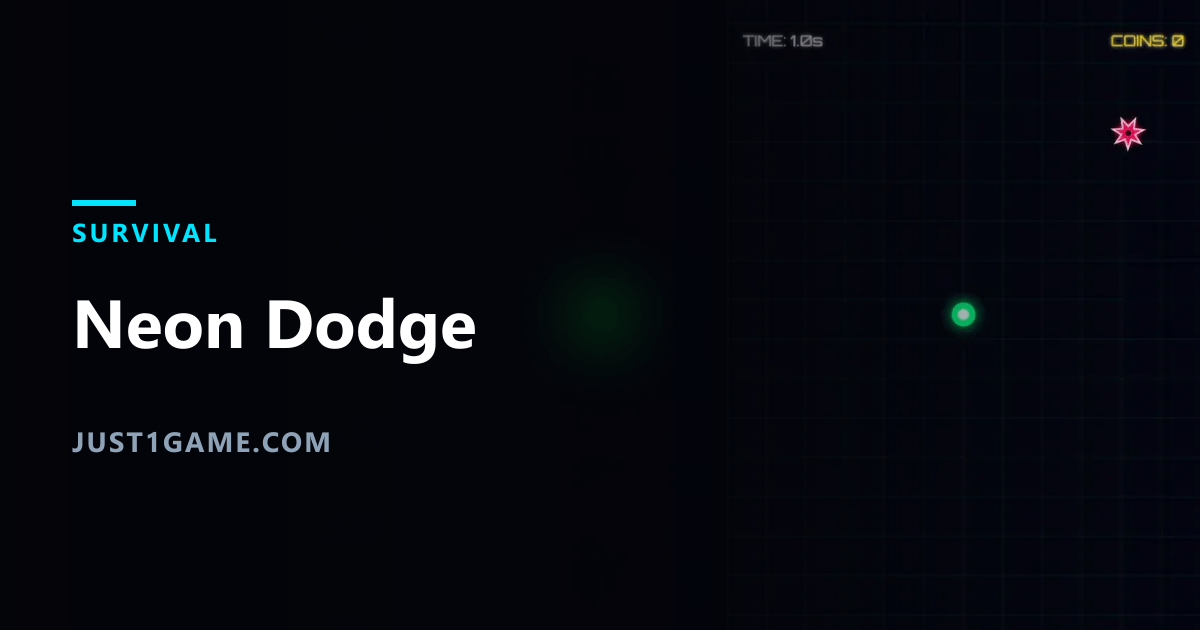
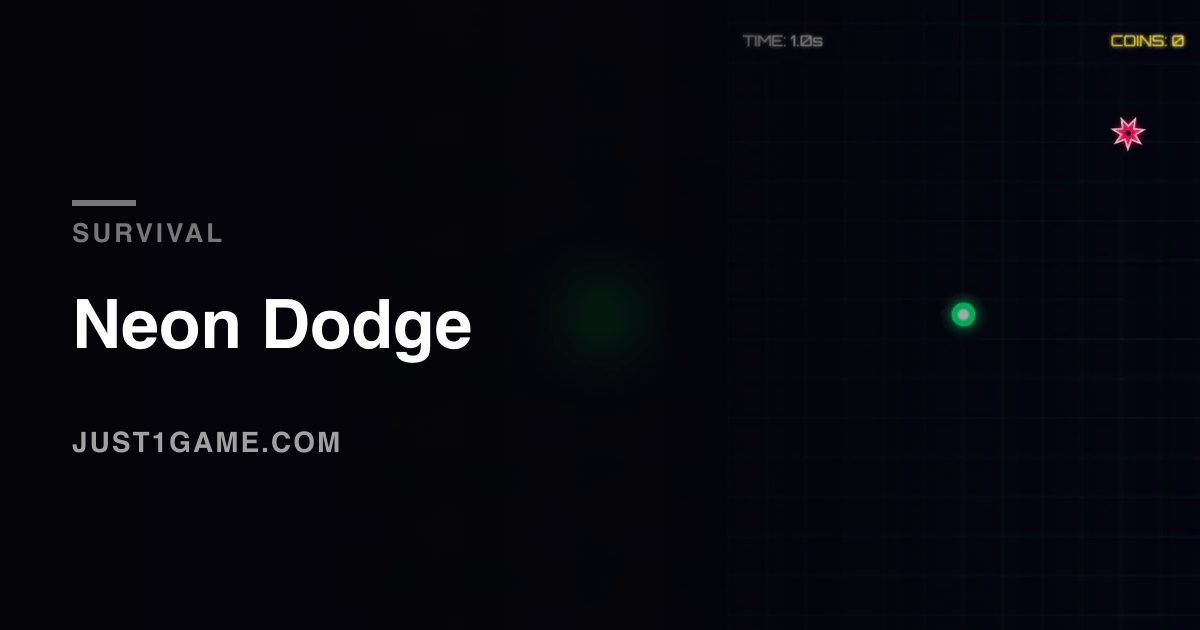
Let each share card take its colour from its own game
The card's text panel was a hardcoded near-black with a cyan rule. That was
right for nineteen neon games and wrong for the cream one: half of the
Feltling card went out black, so the link preview looked like a different
game than the one behind it.

The panel now derives from the thumbnail's dominant colour, and flips
polarity — a pastel game gets a light panel with dark type, a dark game
keeps white type on near-black. Tests hold both to a 4.5:1 contrast ratio
across a spread of dominant colours, because deriving a colour is exactly
the kind of change that quietly produces grey on grey.

The CLI at the bottom of the file only runs when the file is executed. It
used to run on import, which meant importing one function regenerated
twenty cards and then called process.exit.

Claude-Session: https://claude.ai/code/session_016REG1S2ydo31u1TNooXeEh

Changed region(s): [[0.0617, 0.4524, 0.4008, 0.573], [0.0617, 0.6635, 0.3083, 0.7238], [0.0617, 0.3016, 0.185, 0.3921]]

diff --git a/tools/og.js b/tools/og.js
@@ -9,6 +9,7 @@ import sharp from 'sharp';
 import { readFile, mkdir } from 'node:fs/promises';
 import { existsSync } from 'node:fs';
 import path from 'node:path';
+import { fileURLToPath } from 'node:url';
 import { thumbPath, ogPath } from './paths.js';
 
 const W = 1200;
@@ -18,6 +19,49 @@ const H = 630;
 // 어긋나면 오른쪽 세로 카드에서 게임이 잘린다.
 const WIDTH_RATIO_W = 3;
 const WIDTH_RATIO_H = 4;
+
+/* 카드 색을 게임에서 가져온다.
+   예전에는 왼쪽 글자판이 항상 #05060a(거의 검정)에 청록 강조였다. 네온 게임 19개에는
+   맞았지만, 크림색 펠트 게임의 카드가 절반은 검정으로 나가서 공유 링크만 보고는 다른
+   게임처럼 보였다. 썸네일의 대표색을 어둡게 눌러 쓰면 모든 게임이 자기 색을 갖는다. */
+const mix = (c, t, k) => ({
+  r: Math.round(c.r + (t.r - c.r) * k),
+  g: Math.round(c.g + (t.g - c.g) * k),
+  b: Math.round(c.b + (t.b - c.b) * k)
+});
+const hex = (c) => '#' + [c.r, c.g, c.b].map(v => Math.max(0, Math.min(255, v)).toString(16).padStart(2, '0')).join('');
+// 흰 글씨가 얹히는 판이라 상대 휘도가 충분히 낮아야 한다. WCAG 계수를 그대로 쓴다.
+const luma = (c) => (0.2126 * c.r + 0.7152 * c.g + 0.0722 * c.b) / 255;
+
+export function cardColors(dominant) {
+  const BLACK = { r: 5, g: 6, b: 10 };
+  const WHITE = { r: 255, g: 255, b: 255 };
+
+  /* 밝은 게임을 억지로 검게 누르면 카드가 게임과 다른 물건이 된다. 파스텔 게임은
+     밝은 판에 어두운 글씨로 뒤집는다 — 이쪽이 게임 화면과 같은 인상이 되고,
+     대비는 글씨색을 반대로 가져가므로 오히려 더 벌어진다. */
+  if (luma(dominant) > 0.45) {
+    let shade = mix(dominant, WHITE, 0.58);
+    while (luma(shade) < 0.74) shade = mix(shade, WHITE, 0.3);
+    return {
+      shade: hex(shade),
+      ink: hex(mix(dominant, BLACK, 0.86)),
+      accent: hex(mix(dominant, BLACK, 0.62)),
+      site: hex(mix(dominant, BLACK, 0.48)),
+      baseBrightness: 1.02
+    };
+  }
+
+  let shade = mix(dominant, BLACK, 0.80);
+  while (luma(shade) > 0.16) shade = mix(shade, BLACK, 0.35);
+  return {
+    shade: hex(shade),
+    ink: '#ffffff',
+    accent: hex(mix(dominant, WHITE, 0.45)),
+    site: hex(mix(dominant, WHITE, 0.62)),
+    baseBrightness: 0.5
+  };
+}
 
 const escapeXml = (s) => String(s)
   .replace(/&/g, '&amp;')
@@ -39,7 +83,7 @@ function wrap(text, maxChars) {
   return lines.slice(0, 2);
 }
 
-function overlaySvg(title, tag) {
+function overlaySvg(title, tag, colors) {
   const lines = wrap(title, 18);
   const titleSvg = lines
     .map((line, i) => `<text x="72" y="${lines.length === 1 ? 348 : 306 + i * 76}" class="t">${escapeXml(line)}</text>`)
@@ -48,18 +92,18 @@ function overlaySvg(title, tag) {
   return Buffer.from(`<svg width="${W}" height="${H}" xmlns="http://www.w3.org/2000/svg">
   <defs>
     <linearGradient id="shade" x1="0" y1="0" x2="1" y2="0">
-      <stop offset="0%" stop-color="#05060a" stop-opacity="0.92"/>
-      <stop offset="55%" stop-color="#05060a" stop-opacity="0.72"/>
-      <stop offset="100%" stop-color="#05060a" stop-opacity="0"/>
+      <stop offset="0%" stop-color="${colors.shade}" stop-opacity="0.94"/>
+      <stop offset="55%" stop-color="${colors.shade}" stop-opacity="0.76"/>
+      <stop offset="100%" stop-color="${colors.shade}" stop-opacity="0"/>
     </linearGradient>
     <style>
-      .t { font-family: 'Segoe UI', 'DejaVu Sans', sans-serif; font-size: 68px; font-weight: 700; fill: #ffffff; }
-      .tag { font-family: 'Segoe UI', 'DejaVu Sans', sans-serif; font-size: 26px; font-weight: 700; fill: #00e5ff; letter-spacing: 3px; }
-      .site { font-family: 'Segoe UI', 'DejaVu Sans', sans-serif; font-size: 28px; font-weight: 700; fill: #8ea3b8; letter-spacing: 2px; }
+      .t { font-family: 'Segoe UI', 'DejaVu Sans', sans-serif; font-size: 68px; font-weight: 700; fill: ${colors.ink}; }
+      .tag { font-family: 'Segoe UI', 'DejaVu Sans', sans-serif; font-size: 26px; font-weight: 700; fill: ${colors.accent}; letter-spacing: 3px; }
+      .site { font-family: 'Segoe UI', 'DejaVu Sans', sans-serif; font-size: 28px; font-weight: 700; fill: ${colors.site}; letter-spacing: 2px; }
     </style>
   </defs>
   <rect width="${W}" height="${H}" fill="url(#shade)"/>
-  <rect x="72" y="200" width="64" height="6" fill="#00e5ff"/>
+  <rect x="72" y="200" width="64" height="6" fill="${colors.accent}"/>
   <text x="72" y="242" class="tag">${escapeXml(String(tag).toUpperCase())}</text>
   ${titleSvg}
   <text x="72" y="452" class="site">JUST1GAME.COM</text>
@@ -75,11 +119,13 @@ export async function makeOg(slug, title, tag) {
   // 그 위에 선명한 세로 카드를 오른쪽에 높이 꽉 맞춰 놓고, 왼쪽은 글자판으로 쓴다.
   const thumb = await readFile(src);
   const artW = Math.round((H * WIDTH_RATIO_W) / WIDTH_RATIO_H);   // 3:4를 높이에 맞춘 폭
+  const { dominant } = await sharp(thumb).stats();
+  const colors = cardColors(dominant);
 
   const base = await sharp(thumb)
     .resize(W, H, { fit: 'cover', position: 'centre' })
     .blur(26)
-    .modulate({ brightness: 0.5, saturation: 1.1 })
+    .modulate({ brightness: colors.baseBrightness, saturation: 1.1 })
     .toBuffer();
 
   const art = await sharp(thumb)
@@ -92,7 +138,7 @@ export async function makeOg(slug, title, tag) {
   await sharp(base)
     .composite([
       { input: art, top: 0, left: W - artW },
-      { input: overlaySvg(title, tag), top: 0, left: 0 }
+      { input: overlaySvg(title, tag, colors), top: 0, left: 0 }
     ])
     .png({ compressionLevel: 9, palette: true })
     .toFile(out);
@@ -101,24 +147,29 @@ export async function makeOg(slug, title, tag) {
 }
 
 // --- CLI ---
-const args = process.argv.slice(2);
-const games = JSON.parse(await readFile('games.json', 'utf8'))
-  .filter(g => g.status === 'published' || g.status === 'demoted')
-  .filter(g => (args.length ? args.includes(g.slug) : true));
+// 직접 실행할 때만 돈다. 예전에는 모듈을 읽는 것만으로 카드 20장을 다시 만들고
+// process.exit을 불렀다 — 테스트가 이 파일에서 함수 하나를 가져오는 순간 테스트 러너가
+// 통째로 죽는다는 뜻이다.
+if (process.argv[1] && path.resolve(process.argv[1]) === fileURLToPath(import.meta.url)) {
+  const args = process.argv.slice(2);
+  const games = JSON.parse(await readFile('games.json', 'utf8'))
+    .filter(g => g.status === 'published' || g.status === 'demoted')
+    .filter(g => (args.length ? args.includes(g.slug) : true));
 
-if (!games.length) {
-  console.error(args.length ? `no published game matches: ${args.join(', ')}` : 'no published games');
-  process.exit(1);
-}
-
-let failed = 0;
-for (const game of games) {
-  try {
-    const out = await makeOg(game.slug, game.title, game.tag);
-    console.log(`ok   ${game.slug} -> ${out}`);
-  } catch (err) {
-    console.error(`x    ${game.slug}: ${err.message}`);
-    failed++;
+  if (!games.length) {
+    console.error(args.length ? `no published game matches: ${args.join(', ')}` : 'no published games');
+    process.exit(1);
   }
+
+  let failed = 0;
+  for (const game of games) {
+    try {
+      const out = await makeOg(game.slug, game.title, game.tag);
+      console.log(`ok   ${game.slug} -> ${out}`);
+    } catch (err) {
+      console.error(`x    ${game.slug}: ${err.message}`);
+      failed++;
+    }
+  }
+  process.exit(failed ? 1 : 0);
 }
-process.exit(failed ? 1 : 0);

diff --git a/tests/og.test.js b/tests/og.test.js
@@ -1,0 +1,68 @@
+import { test } from 'node:test';
+import assert from 'node:assert/strict';
+import { readdirSync, readFileSync } from 'node:fs';
+import { cardColors } from '../tools/og.js';
+
+const rgb = (hex) => ({
+  r: parseInt(hex.slice(1, 3), 16),
+  g: parseInt(hex.slice(3, 5), 16),
+  b: parseInt(hex.slice(5, 7), 16)
+});
+const luma = (c) => (0.2126 * c.r + 0.7152 * c.g + 0.0722 * c.b) / 255;
+// WCAG 대비비. 카드 제목은 큰 글씨(68px)라 3:1이 하한이지만 4.5는 넘기게 잡는다.
+const contrast = (a, b) => {
+  const l = (c) => {
+    const f = (v) => { const s = v / 255; return s <= 0.03928 ? s / 12.92 : ((s + 0.055) / 1.055) ** 2.4; };
+    return 0.2126 * f(c.r) + 0.7152 * f(c.g) + 0.0722 * f(c.b);
+  };
+  const [x, y] = [l(a), l(b)].sort((p, q) => q - p);
+  return (x + 0.05) / (y + 0.05);
+};
+
+const MEADOW = { r: 185, g: 208, b: 171 };   // feltling 썸네일의 대표색
+const NEON = { r: 8, g: 12, b: 22 };         // 어두운 아케이드 게임
+
+/* 예전에는 글자판이 항상 거의 검정이었다. 네온 19개에는 맞았고, 크림색 펠트 게임의
+   공유 카드는 절반이 검정으로 나가서 링크만 보고는 다른 게임처럼 보였다. */
+test('밝은 게임은 밝은 카드를 받는다', () => {
+  const c = cardColors(MEADOW);
+  assert.ok(luma(rgb(c.shade)) > 0.7, `판이 어둡다: ${c.shade}`);
+  assert.ok(luma(rgb(c.ink)) < 0.2, `글씨가 밝다: ${c.ink}`);
+  assert.ok(c.baseBrightness > 1, '밝은 카드인데 배경을 어둡게 눌렀다');
+});
+
+test('어두운 게임은 어두운 카드를 그대로 받는다', () => {
+  const c = cardColors(NEON);
+  assert.ok(luma(rgb(c.shade)) < 0.2, `판이 밝다: ${c.shade}`);
+  assert.equal(c.ink, '#ffffff');
+  assert.ok(c.baseBrightness < 1);
+});
+
+test('어느 쪽이든 제목이 판 위에서 읽힌다', () => {
+  for (const dominant of [MEADOW, NEON, { r: 128, g: 128, b: 128 },
+                          { r: 250, g: 250, b: 240 }, { r: 0, g: 0, b: 0 },
+                          { r: 220, g: 90, b: 90 }, { r: 40, g: 120, b: 200 }]) {
+    const c = cardColors(dominant);
+    const ratio = contrast(rgb(c.shade), rgb(c.ink));
+    assert.ok(ratio >= 4.5, `${JSON.stringify(dominant)} → 대비 ${ratio.toFixed(1)}:1`);
+  }
+});
+
+test('태그와 도메인 줄도 판에서 분리된다', () => {
+  for (const dominant of [MEADOW, NEON, { r: 220, g: 90, b: 90 }]) {
+    const c = cardColors(dominant);
+    for (const key of ['accent', 'site']) {
+      const ratio = contrast(rgb(c.shade), rgb(c[key]));
+      assert.ok(ratio >= 3, `${key} 대비 ${ratio.toFixed(1)}:1`);
+    }
+  }
+});
+
+test('발행된 게임마다 공유 카드가 실제로 있다', () => {
+  const games = JSON.parse(readFileSync('games.json', 'utf8'))
+    .filter(g => g.status === 'published' || g.status === 'demoted');
+  const cards = new Set(readdirSync('assets/og'));
+  for (const g of games) {
+    assert.ok(cards.has(`${g.slug}.png`), `${g.slug} 의 공유 카드가 없다`);
+  }
+});
